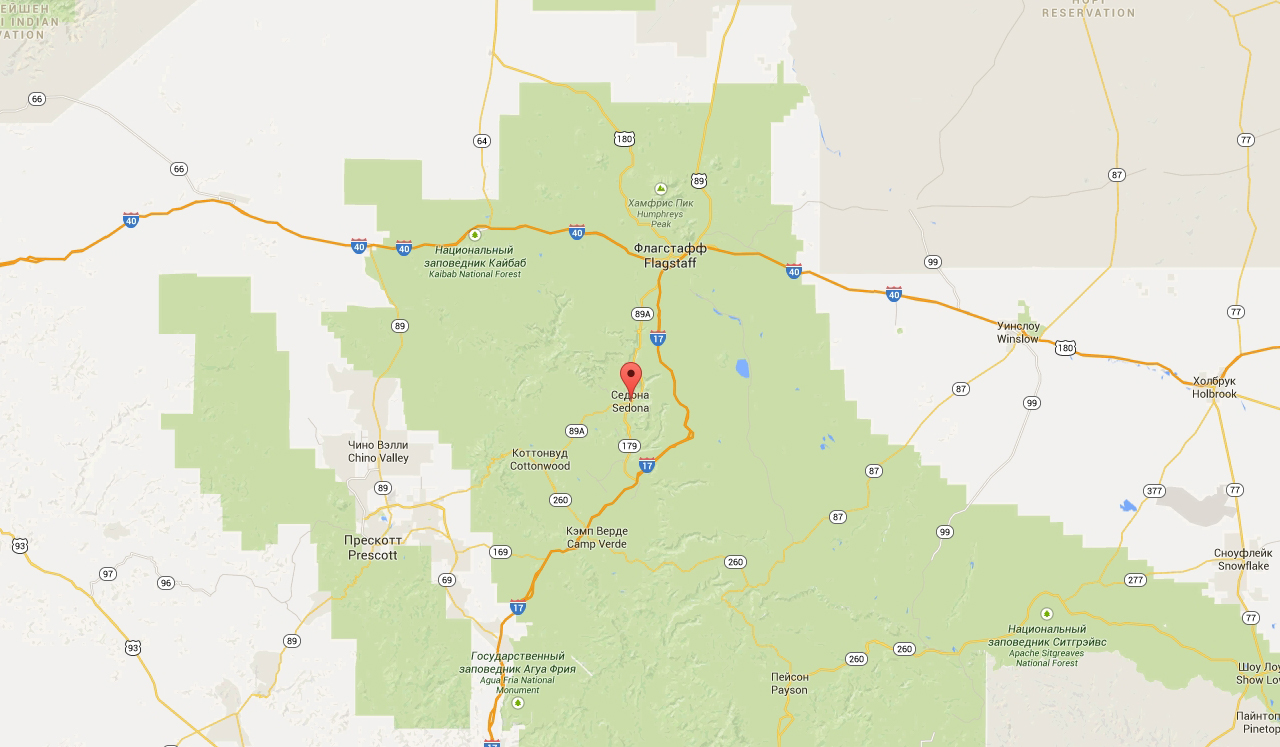
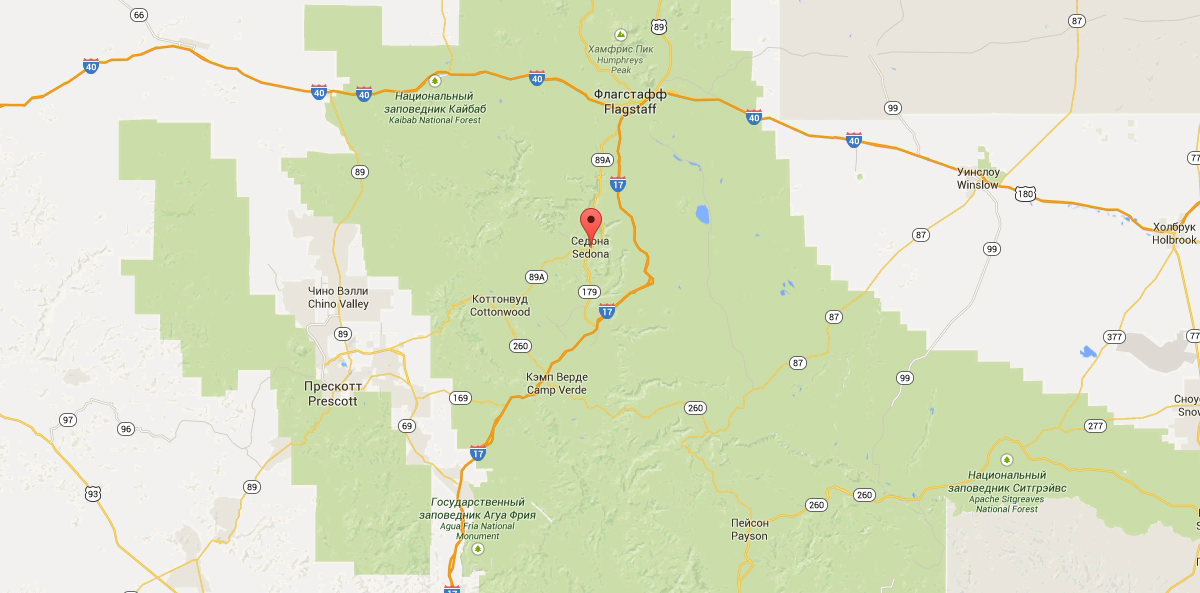
мелочи

diff --git a/index.html b/index.html
@@ -116,7 +116,7 @@
     </section>
 
     <section class="map">
-      <img src="img/map.jpg" width="1280" height="747" alt="карта">
+      <img src="img/map.jpg" width="1200" height="593" alt="карта">
     </section>
 
     <footer class="main-footer">
@@ -124,12 +124,13 @@
         <a href="#">#VISITSEDONA</a>
       </section>
       <section class="footer-social">
-        <a class="social-btn social-btn-tw" href="#">Твиттер</a>
-        <a class="social-btn social-btn-fb" href="#">Фейсбук</a>
-        <a class="social-btn social-btn-yt" href="#">Ютуб</a>
+        <a class="social-btn social-btn-tw" href="#"><img src="img/icons/icon_twitter.png" width="17" height="15" alt="tw"></a>
+        <a class="social-btn social-btn-fb" href="#"><img src="img/icons/icon_facebook.png" width="10" height="19" alt="tw"></a>
+        <a class="social-btn social-btn-yt" href="#"><img src="img/icons/icon_youtube.png" width="20" height="16" alt="tw"></a>
       </section>
       <section class="footer-copyright">
-        <a class="btn" href="https://htmlacademy.ru">HTML Academy</a>
+        <span>WEBSITE BY</span>
+        <a class="btn-academy" href="https://htmlacademy.ru"><img src="img/academy.png" width="113" height="39" alt="academy"></a>
       </section>
     </footer>
 

diff --git a/css/style.css b/css/style.css
@@ -282,8 +282,32 @@ body {
   text-decoration: none;
 }
 
+
 .footer-social a {
   text-decoration: none;
+
+
+}
+
+.social-btn-tw {
+  display: inline-block;
+  width: 46px;
+  height: 48px;
+  background-color: #81b3d2;
+}
+
+.social-btn-fb {
+  display: inline-block;
+  width: 46px;
+  height: 48px;
+  background-color: #81b3d2;
+}
+
+.social-btn-yt {
+  display: inline-block;
+  width: 46px;
+  height: 48px;
+  background-color: #81b3d2;
 }
 
 .footer-copyright {
@@ -295,6 +319,7 @@ body {
 .footer-copyright a {
   text-decoration: none;
 }
+
 
 
 
